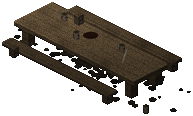
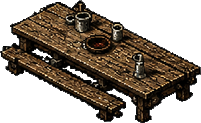
Use the hand-made sprite sheets (assets/decor_src): tools/import_sprites.py keys out the backgrounds, cuts, scales and anchors all 24 pieces; they replace the generated drawings
Claude-Session: https://claude.ai/code/session_01FTM6qYkrhLSEZZFebzkpFq

diff --git a/tools/import_sprites.py b/tools/import_sprites.py
@@ -1,0 +1,126 @@
+"""Cuts the hand-made decoration sprite sheets (assets/decor_src/sheet*.png) into the game's sprites
+(assets/decor/<name>.png + their ground points in anchors.json):
+
+    python tools/import_sprites.py
+
+sheet1: 4 x 3 on a black ground, a label above each.  sheet2: 4 x 3 on a white/grey checkerboard.
+The background is keyed out, each piece cropped and scaled to the game's size (a man is ~90 px).
+"""
+import json
+import os
+
+from PIL import Image, ImageFilter
+
+ROOT = os.path.dirname(os.path.dirname(os.path.abspath(__file__)))
+SRC = os.path.join(ROOT, "assets", "decor_src")
+OUT = os.path.join(ROOT, "assets", "decor")
+
+SHEET1 = ["anvil", "armorstand", "arrows", "banner", "blood", "bones", "cart", "crates",
+          "debris", "dummy", "forge", "weaponrack"]
+SHEET2 = ["statue", "bunks", "table", "kegs", "grindstone", "target", "shieldrack", "chest",
+          "cauldron", "gibbet", "spikes", "sacks"]
+SCALE1, SCALE2 = 0.74, 0.6
+
+
+def key_dark(im):
+    """Black ground -> transparent. What is clearly lit (props, pebbles) stays, with the dark parts of
+    the props next to it (dark iron, shadows inside a crate); the soft soil halo far from anything goes."""
+    import numpy as np
+    from scipy import ndimage
+    a = np.asarray(im, dtype=np.float32)
+    lum = (a[..., 0] * 30 + a[..., 1] * 59 + a[..., 2] * 11) / 100.0
+    red = (a[..., 0] > 24) & (a[..., 0] > a[..., 1] * 2.0) & (a[..., 0] > a[..., 2] * 2.0)          # blood is dark, but red
+    core = (lum > 42) | red
+    near = ndimage.binary_dilation(core, iterations=6)
+    keep = ((lum > 13) | red) & near
+    keep = ndimage.binary_fill_holes(ndimage.binary_closing(keep, iterations=2)) & ((lum > 6) | red)
+    return Image.fromarray((keep * 255).astype("uint8"))
+
+
+def key_checker(im):
+    """White/grey checkerboard -> transparent: bright, colourless pixels."""
+    px = im.load()
+    a = Image.new("L", im.size, 0)
+    pa = a.load()
+    for y in range(im.height):
+        for x in range(im.width):
+            r, g, b = px[x, y][:3]
+            lum = (r * 30 + g * 59 + b * 11) / 100.0
+            sat = max(r, g, b) - min(r, g, b)
+            pa[x, y] = 0 if (lum > 196 and sat < 18) else 255
+    return a
+
+
+def clean(alpha, min_px=6):
+    """Drop isolated specks: a pixel needs a few opaque neighbours."""
+    return alpha.filter(ImageFilter.MedianFilter(3))
+
+
+def boxes_of(alpha, rows, cols, skip_top=0, row_ranges=None):
+    """The pieces in reading order: big blobs of the mask (pieces joined by their scattered
+    pebbles), the n largest, sorted into rows and then left to right."""
+    import numpy as np
+    from scipy import ndimage
+    a = np.array(alpha) > 0
+    if row_ranges:
+        keep = np.zeros_like(a)
+        for y0, y1 in row_ranges:
+            keep[y0:y1] = True
+        a &= keep
+    lab, n = ndimage.label(ndimage.binary_dilation(a, iterations=14))
+    objs = ndimage.find_objects(lab)
+    sizes = ndimage.sum(a, lab, range(1, n + 1))
+    best = sorted(range(n), key=lambda i: -sizes[i])[:rows * cols]
+    boxes = []
+    for i in best:
+        sl = objs[i]
+        sub = a[sl] & (lab[sl] == i + 1)
+        ys, xs = np.nonzero(sub)
+        boxes.append((sl[1].start + xs.min(), sl[0].start + ys.min(), sl[1].start + xs.max() + 1, sl[0].start + ys.max() + 1))
+    H = alpha.size[1]
+
+    def row_of(b):
+        cy = (b[1] + b[3]) / 2.0
+        if row_ranges:
+            return min(range(len(row_ranges)), key=lambda k: abs((row_ranges[k][0] + row_ranges[k][1]) / 2.0 - cy))
+        return int(cy / (H / float(rows)))
+    boxes.sort(key=lambda b: (row_of(b), b[0]))
+    return boxes
+
+
+def save(im, alpha, box, name, scale, anchors):
+    x0, y0, x1, y1 = box
+    piece = im.crop(box).convert("RGBA")
+    piece.putalpha(alpha.crop(box))
+    w, h = max(1, int(piece.width * scale)), max(1, int(piece.height * scale))
+    piece = piece.resize((w, h), Image.LANCZOS)
+    a = piece.split()[3].point(lambda v: 255 if v > 120 else 0)
+    piece.putalpha(a)
+    bb = a.getbbox() or (0, 0, w, h)
+    piece = piece.crop(bb)
+    piece.save(os.path.join(OUT, name + ".png"))
+    # the ground point: under the middle, a little up from the lowest pixel (the footprint's centre)
+    anchors[name] = [piece.width // 2, max(0, piece.height - min(28, int(piece.height * 0.16)))]
+
+
+def main():
+    os.makedirs(OUT, exist_ok=True)
+    path = os.path.join(OUT, "anchors.json")
+    anchors = json.load(open(path)) if os.path.exists(path) else {}
+    for sheet, names, keyer, rr, scale in (("sheet1.png", SHEET1, key_dark, [(45, 360), (395, 680), (712, 1054)], SCALE1),
+                                           ("sheet2.png", SHEET2, key_checker, None, SCALE2)):
+        f = os.path.join(SRC, sheet)
+        if not os.path.exists(f):
+            continue
+        im = Image.open(f).convert("RGB")
+        alpha = clean(keyer(im))
+        for name, box in zip(names, boxes_of(alpha, 3, 4, row_ranges=rr)):
+            if box:
+                save(im, alpha, box, name, scale, anchors)
+                print("cut", name)
+    with open(path, "w") as fh:
+        json.dump(anchors, fh, indent=1)
+
+
+if __name__ == "__main__":
+    main()

diff --git a/tools/make_decor.py b/tools/make_decor.py
@@ -905,6 +905,10 @@ def main(path):
     import json
     with open(os.path.join(OUT, "anchors.json"), "w") as fh:
         json.dump(ANCHORS, fh, indent=1)
+    # the hand-made sprite sheets (assets/decor_src) replace these drawings where they exist
+    sys.path.insert(0, os.path.dirname(os.path.abspath(__file__)))
+    import import_sprites
+    import_sprites.main()
 
 
 if __name__ == "__main__":
